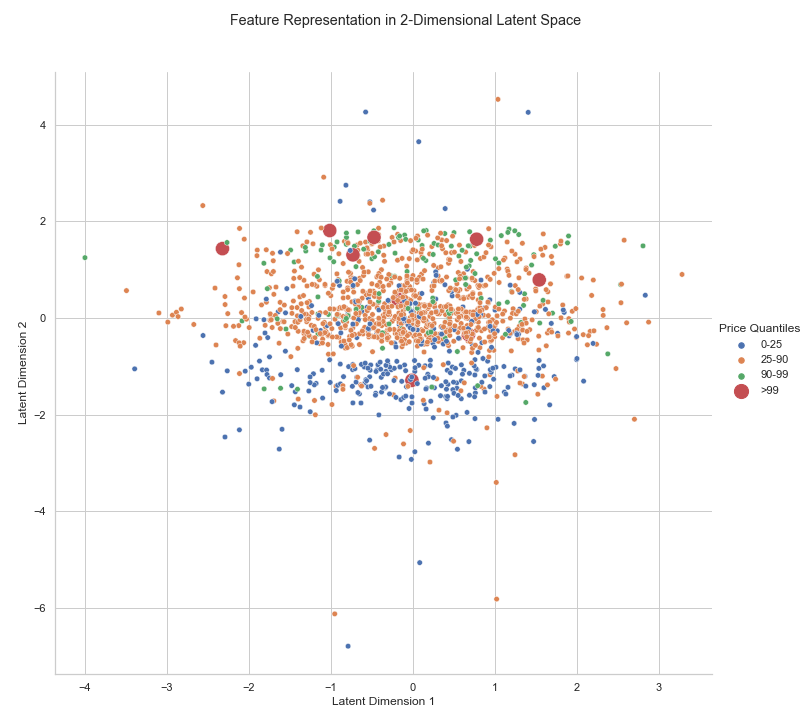
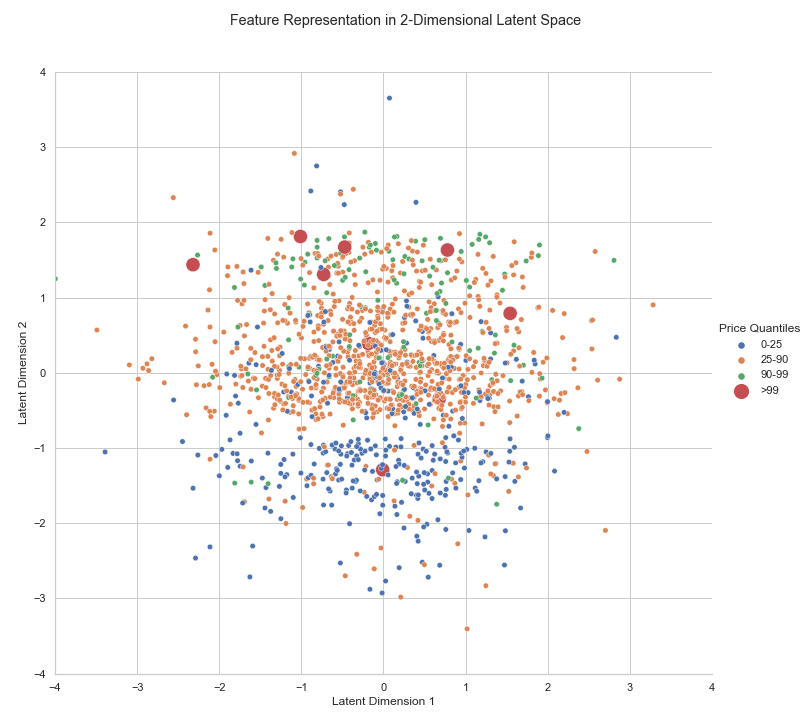
added outlier analysis for classical models

diff --git a/models/outliers.py b/models/outliers.py
@@ -1,15 +1,25 @@
 #%%
+from warnings import simplefilter
+
 import numpy as np
 import pandas as pd
 import torch
 import torch.nn as nn
 from sklearn.model_selection import train_test_split
+from sklearn.pipeline import Pipeline
+from sklearn.compose import ColumnTransformer
 from torch.optim import Adam
 from torch.utils.data import DataLoader, TensorDataset
 
 from pytorch_helpers import MLP, run_regression
-from sklearn_helpers import ResultContainer, get_column_transformer
+from sklearn_helpers import (
+    ResultContainer,
+    fit_models,
+    get_column_transformer,
+    get_models,
+)
 
+simplefilter(action="ignore", category=FutureWarning)
 pd.set_option("precision", 3)
 pd.set_option("display.max_columns", 100)
 
@@ -17,17 +27,18 @@ pd.set_option("display.max_columns", 100)
 X_train_val = pd.read_pickle("../data-clean/X_train_val.pkl")
 y_train_val = pd.read_pickle("../data-clean/y_train_val.pkl")
 
-device = torch.device("cuda" if torch.cuda.is_available() else "cpu")
-
-#%%
 # look into outliers (here largest quantile of prices)
 y_train_val.loc[y_train_val > y_train_val.quantile(1 - (1 / 100))]
 X_train_val.loc[y_train_val > y_train_val.quantile(1 - (1 / 100))]
 
 #%%
-def get_data(
-    X_train_val: pd.DataFrame, y_train_val: pd.DataFrame, quantile_threshold: float
-) -> tuple[TensorDataset, TensorDataset]:
+# SECTION: Neural Network
+device = torch.device("cuda" if torch.cuda.is_available() else "cpu")
+
+#%%
+def get_mlp_data(
+    X_train_val: pd.DataFrame, y_train_val: pd.Series, quantile_threshold: float
+) -> tuple[TensorDataset, TensorDataset, ColumnTransformer]:
     # drop all observations above certain quantile in price distribution
     keep_index = y_train_val.loc[
         y_train_val <= y_train_val.quantile(1 - (quantile_threshold / 100))
@@ -74,7 +85,7 @@ quantile_threshold_list = [0, 1, 2.5, 5, 10]
 quantile_threshold_results = []
 
 for quantile_threshold in quantile_threshold_list:
-    trainset, valset, column_transformer = get_data(
+    trainset, valset, column_transformer = get_mlp_data(
         X_train_val, y_train_val, quantile_threshold
     )
     in_features = len(trainset[0][0])
@@ -125,16 +136,97 @@ for quantile_threshold in quantile_threshold_list:
     df = result_container.display_df().assign(quantile_threshold=quantile_threshold)
     quantile_threshold_results.append(df)
 
-output_df = pd.concat(quantile_threshold_results).sort_values("mae_val")
+mlp_results = pd.concat(quantile_threshold_results).sort_values("mae_val")
 
 
 #%%
-cols = list(output_df.columns)
+cols = list(mlp_results.columns)
 cols = [cols[-1]] + cols[:-1]
-output_df = output_df[cols]
+mlp_results = mlp_results[cols]
 
-output_df.to_pickle("../results-pickle/neural_network_outliers.pkl")
+mlp_results.to_pickle("../results-pickle/neural_network_outliers.pkl")
 
 #%%
-output_df = pd.read_pickle("../results-pickle/neural_network_outliers.pkl")
-output_df
+# SECTION: Classical Models
+def get_classical_data(
+    X_train_val: pd.DataFrame, y_train_val: pd.Series, quantile_threshold: float
+) -> tuple[pd.DataFrame, pd.Series]:
+    # drop all observations above certain quantile in price distribution
+    keep_index = y_train_val.loc[
+        y_train_val <= y_train_val.quantile(1 - (quantile_threshold / 100))
+    ].index
+
+    y_train_val = y_train_val.loc[keep_index]
+    X_train_val = X_train_val.loc[keep_index]
+
+    return X_train_val, y_train_val
+
+
+#%%
+# BOOKMARK: Hyperparameters
+random_state = 42
+n_folds = 10
+n_iter = 10
+log_y = True
+
+quantile_threshold_list = [0, 1, 2.5, 5, 10]
+
+#%%
+# SUBSECTION: Fit Classical Models
+X_train_val = pd.read_pickle("../data-clean/X_train_val.pkl")
+y_train_val = pd.read_pickle("../data-clean/y_train_val.pkl")
+
+column_transformer = get_column_transformer()
+preprocessor = Pipeline([("column_transformer", column_transformer)])
+quantile_threshold_results = []
+
+for quantile_threshold in quantile_threshold_list:
+
+    X, y = get_classical_data(X_train_val, y_train_val, quantile_threshold)
+    models = get_models(
+        preprocessor,
+        models=["linear", "lasso", "ridge", "random_forest", "hist_gradient_boosting"],
+        random_state=random_state,
+        log_y=log_y,
+    )
+
+    result_container = ResultContainer()
+
+    result = fit_models(
+        X,
+        y,
+        models,
+        result_container,
+        n_folds,
+        n_iter,
+        random_state,
+        log_y=log_y,
+    )
+
+    df = result.display_df().assign(quantile_threshold=quantile_threshold)
+    quantile_threshold_results.append(df)
+
+classical_models_results = pd.concat(quantile_threshold_results).sort_values("mae_val")
+
+#%%
+cols = list(classical_models_results.columns)
+cols = [cols[-1]] + cols[:-1]
+classical_models_results = classical_models_results[cols]
+
+classical_models_results.to_pickle("../results-pickle/classical_models_outliers.pkl")
+
+#%%
+mlp_results = pd.read_pickle("../results-pickle/neural_network_outliers.pkl")
+classical_models_results = pd.read_pickle(
+    "../results-pickle/classical_models_outliers.pkl"
+)
+
+outlier_results = pd.concat([mlp_results, classical_models_results]).sort_values(
+    "mae_val"
+)
+outlier_results.to_pickle("../results-pickle/outlier_results.pkl")
+
+#%%
+pd.read_pickle("../results-pickle/outlier_results.pkl")
+
+#%%

diff --git a/models/mlp_latent_space.py b/models/mlp_latent_space.py
@@ -311,12 +311,12 @@ g = sns.relplot(
     sizes=[30, 30, 30, 200],
     height=10,
     aspect=1,
-).set(xlabel="Latent Dimension 1", ylabel="Latent Dimension 2")
+).set(xlabel="Latent Dimension 1", ylabel="Latent Dimension 2", xlim=[-4, 4], ylim=[-4, 4])
 
 g.fig.subplots_adjust(top=0.9)
 g.fig.suptitle("Feature Representation in 2-Dimensional Latent Space")
 g.fig.savefig("../term-paper/images/latent_representation.png")
 
-sns.move_legend(g, loc="upper center", ncol=6, bbox_to_anchor=(0.5, 0.95))
+sns.move_legend(g, loc="upper center", ncol=4, bbox_to_anchor=(0.5, 0.95))
 
 #%%
